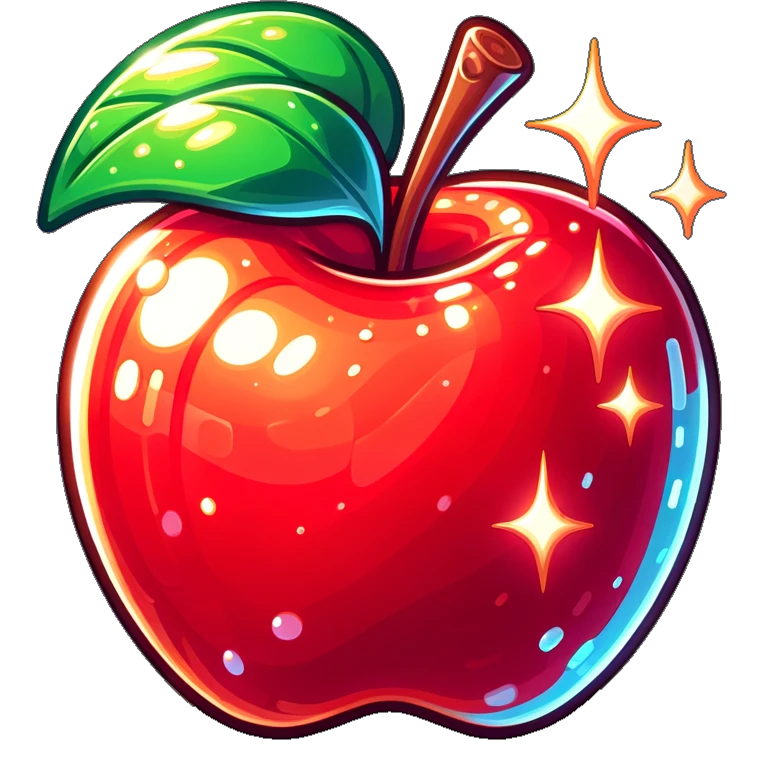
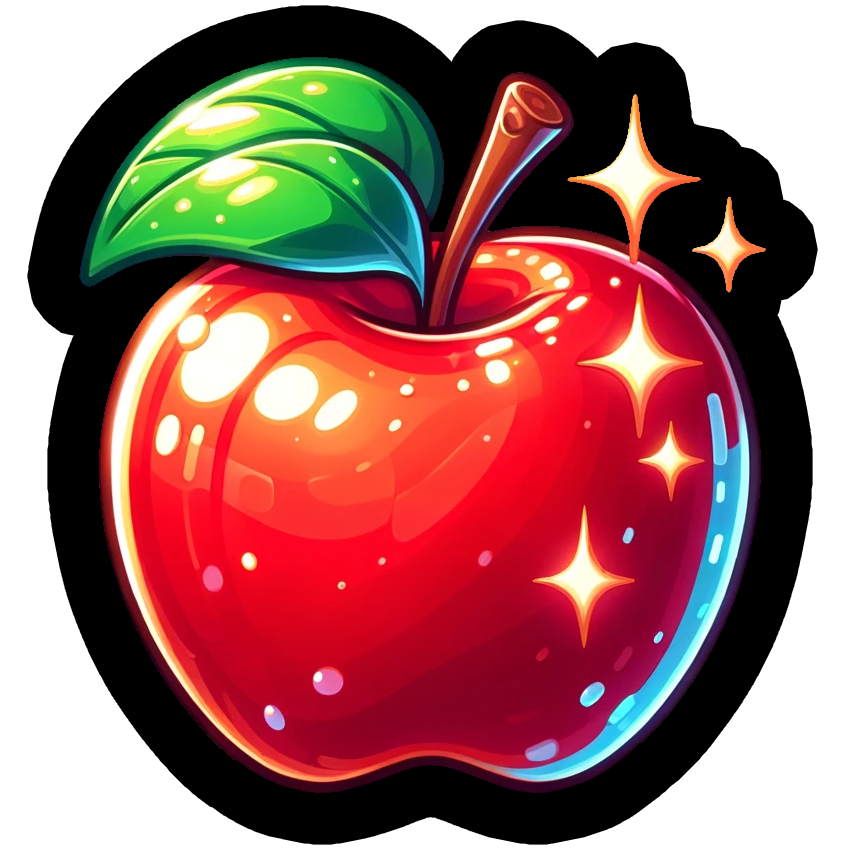
Add background

diff --git a/src/main/java/plaktagalviai/serpentshuffle/GameApplication.java b/src/main/java/plaktagalviai/serpentshuffle/GameApplication.java
@@ -11,6 +11,31 @@ import javafx.scene.paint.Color;
 import javafx.stage.Stage;
 import javafx.util.Duration;
 
+
+import javafx.scene.image.Image;
+import javafx.scene.paint.ImagePattern;
+
+
+import javafx.scene.text.Text;
+import javafx.scene.text.Font;
+import javafx.scene.text.FontWeight;
+
+
+import java.io.IOException;
+import java.util.ArrayList;
+import java.util.List;
+import java.util.Random;
+
+
+import javafx.scene.layout.Background;
+import javafx.scene.layout.BackgroundImage;
+import javafx.scene.layout.BackgroundPosition;
+import javafx.scene.layout.BackgroundRepeat;
+import javafx.scene.layout.BackgroundSize;
+import javafx.scene.layout.Pane;
+import javafx.scene.Scene;
+import javafx.scene.image.Image;
+
 import java.io.IOException;
 import javafx.scene.image.Image;
 import javafx.scene.paint.ImagePattern;
@@ -21,11 +46,7 @@ import javafx.scene.text.FontWeight;
 import javafx.scene.control.Label;
 import javafx.scene.layout.VBox;
 import javafx.geometry.Pos;
-
 import javafx.stage.Window;
-import java.util.ArrayList;
-import java.util.List;
-import java.util.Random;
 
 public class GameApplication extends Application {
 
@@ -44,10 +65,25 @@ public class GameApplication extends Application {
     private int gameScore = 0;
     private Text scoreText;
 
+    Timeline timeline;
+
     @Override
     public void start(Stage stage) {
         Pane root = new Pane();
+        Image image1 = new Image(getClass().getResourceAsStream("background.png"));
+
+        BackgroundImage backgroundImage = new BackgroundImage(
+                image1,
+                BackgroundRepeat.NO_REPEAT,
+                BackgroundRepeat.NO_REPEAT,
+                BackgroundPosition.CENTER,
+                new BackgroundSize(1.0, 1.0, true, true, false, true)
+        );
+
+        root.setBackground(new Background(backgroundImage));
+
         Scene scene = new Scene(root, WINDOW_WIDTH, WINDOW_HEIGHT);
+
 
 
 
@@ -72,7 +108,7 @@ public class GameApplication extends Application {
         scoreText.setY(30);
         root.getChildren().add(scoreText);
 
-        Timeline timeline = new Timeline(new KeyFrame(Duration.millis(MOVE_TIME_MILLISECONDS), e -> moveSnake(root)));
+        timeline = new Timeline(new KeyFrame(Duration.millis(MOVE_TIME_MILLISECONDS), e -> moveSnake(root)));
         timeline.setCycleCount(Timeline.INDEFINITE);
         timeline.play();
 
@@ -94,40 +130,38 @@ public class GameApplication extends Application {
     }
 
 
-    private KeyCode lastCode;
-    private void updateDirection(KeyCode code) {
+    private KeyCode lastKeyCode;
+
+    private void updateDirection(KeyCode keyCode) {
         if (snake.isEmpty()) return;
+
         double dx = 0, dy = 0;
-        switch (code) {
+
+        switch (keyCode) {
             case UP:
-                if(lastCode != KeyCode.DOWN){
-                dy = -1;
-                }
+                if (lastKeyCode != KeyCode.DOWN) dy = -1;
                 break;
             case DOWN:
-                if(lastCode != KeyCode.UP) {
-                    dy = 1;
-                }
+                if (lastKeyCode != KeyCode.UP) dy = 1;
                 break;
             case LEFT:
-                if(lastCode != KeyCode.RIGHT) {
-                    dx = -1;
-                }
+                if (lastKeyCode != KeyCode.RIGHT) dx = -1;
                 break;
             case RIGHT:
-                if(lastCode != KeyCode.LEFT) {
-                    dx = 1;
-                }
+                if (lastKeyCode != KeyCode.LEFT) dx = 1;
                 break;
             case SPACE:
                 addSegment();
                 break;
         }
-        lastCode = code;
+
+        lastKeyCode = keyCode;
+
         if (dx != 0 || dy != 0) {
             snake.getFirst().setDirection(dx, dy);
         }
     }
+
 
     private void moveSnake(Pane root) {
 
@@ -170,7 +204,6 @@ public class GameApplication extends Application {
         }
 
         //Wall collision
-
         if ( (snake.getFirst().getX() > GRID_SUBDIVISIONS-1) || (snake.getFirst().getY() > GRID_SUBDIVISIONS-1) ||
              (snake.getFirst().getX() < 0) || (snake.getFirst().getY() < 0) ) { // TODO refactor
             try{
@@ -178,7 +211,7 @@ public class GameApplication extends Application {
             }catch (IOException e) {
                 e.printStackTrace();
             }
-
+            return;
         }
 
         System.out.println(snake.getFirst().getX() + " " + snake.getFirst().getY());
@@ -210,14 +243,13 @@ public class GameApplication extends Application {
     } // TODO I think this function can be simplified with an exponential equation, but what's wrong with linear increase in the first place?
 
 //    private void gameOver() {
+//        timeline.stop();
 //        System.out.println("Game over.");
 //        System.out.println("Game score: " + gameScore);
 //        Platform.exit();
 //    }// TODO stop the movement cycle immediately after death
-
     private void gameOver() throws IOException {// TODO make buttons in game over screen working. now they are not working
-
-
+        timeline.stop();
         Platform.runLater(() -> {
             Stage stage = (Stage) Stage.getWindows().stream().filter(Window::isShowing).findFirst().orElse(null);
             if(stage != null){
